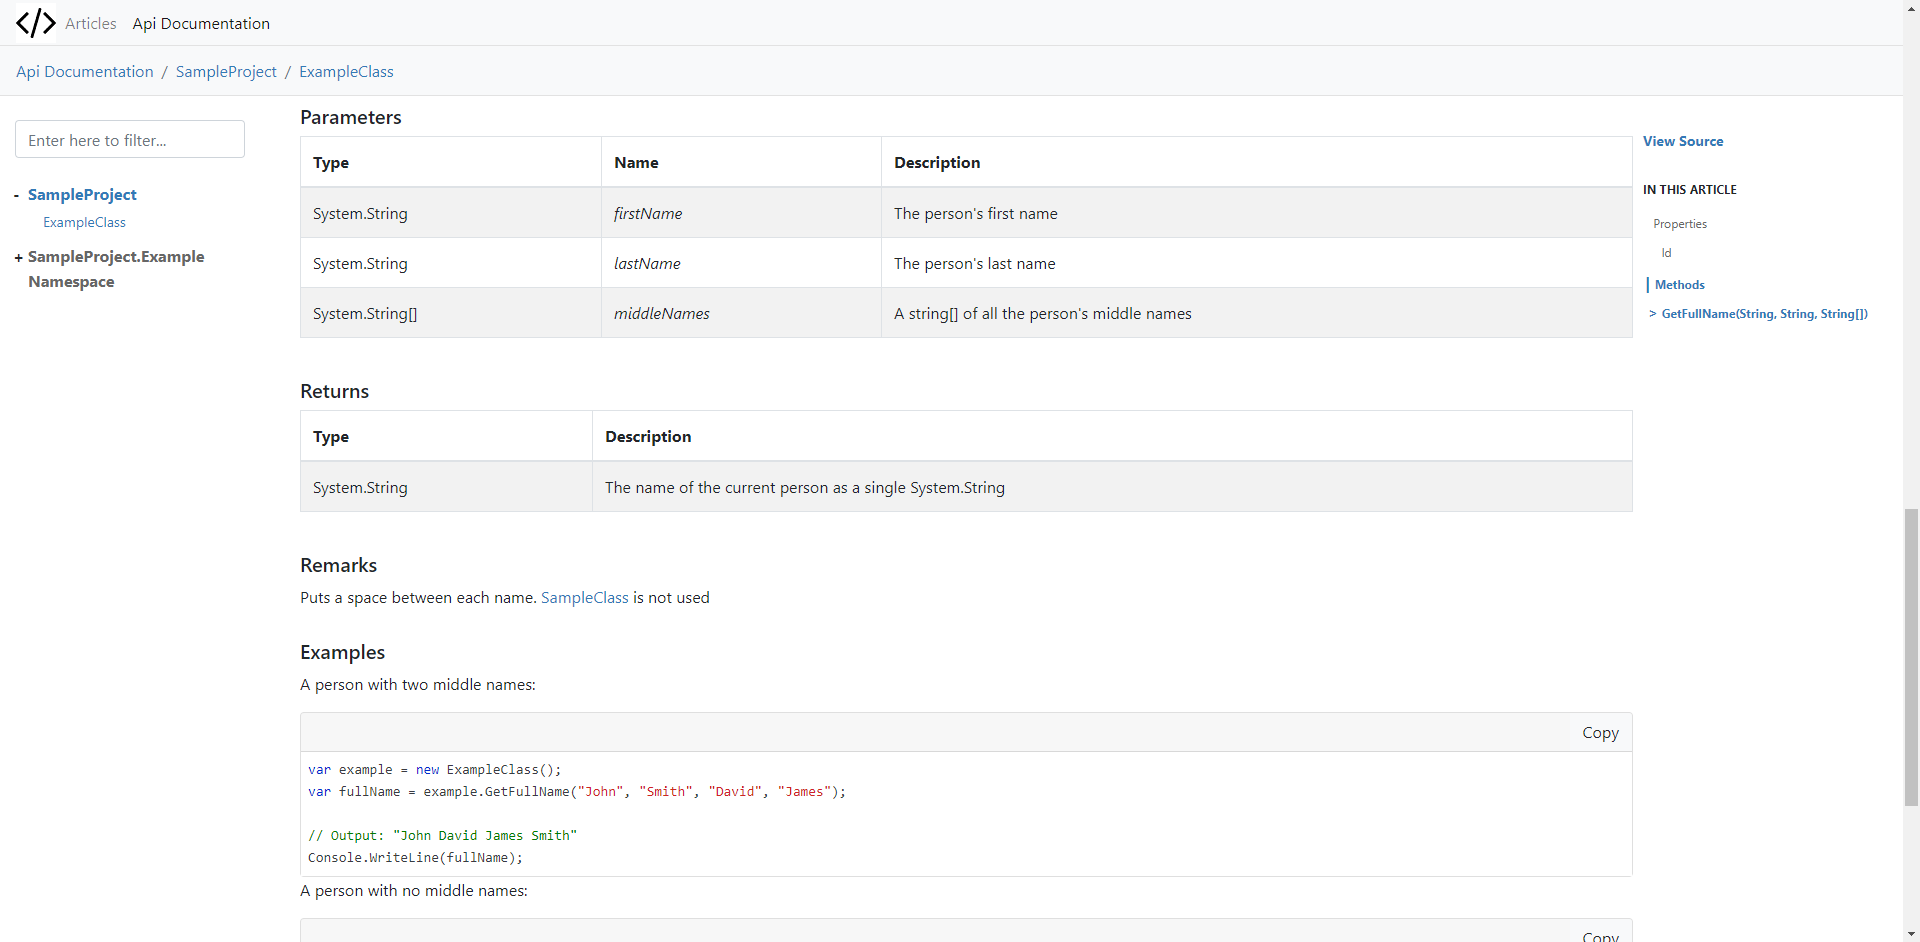
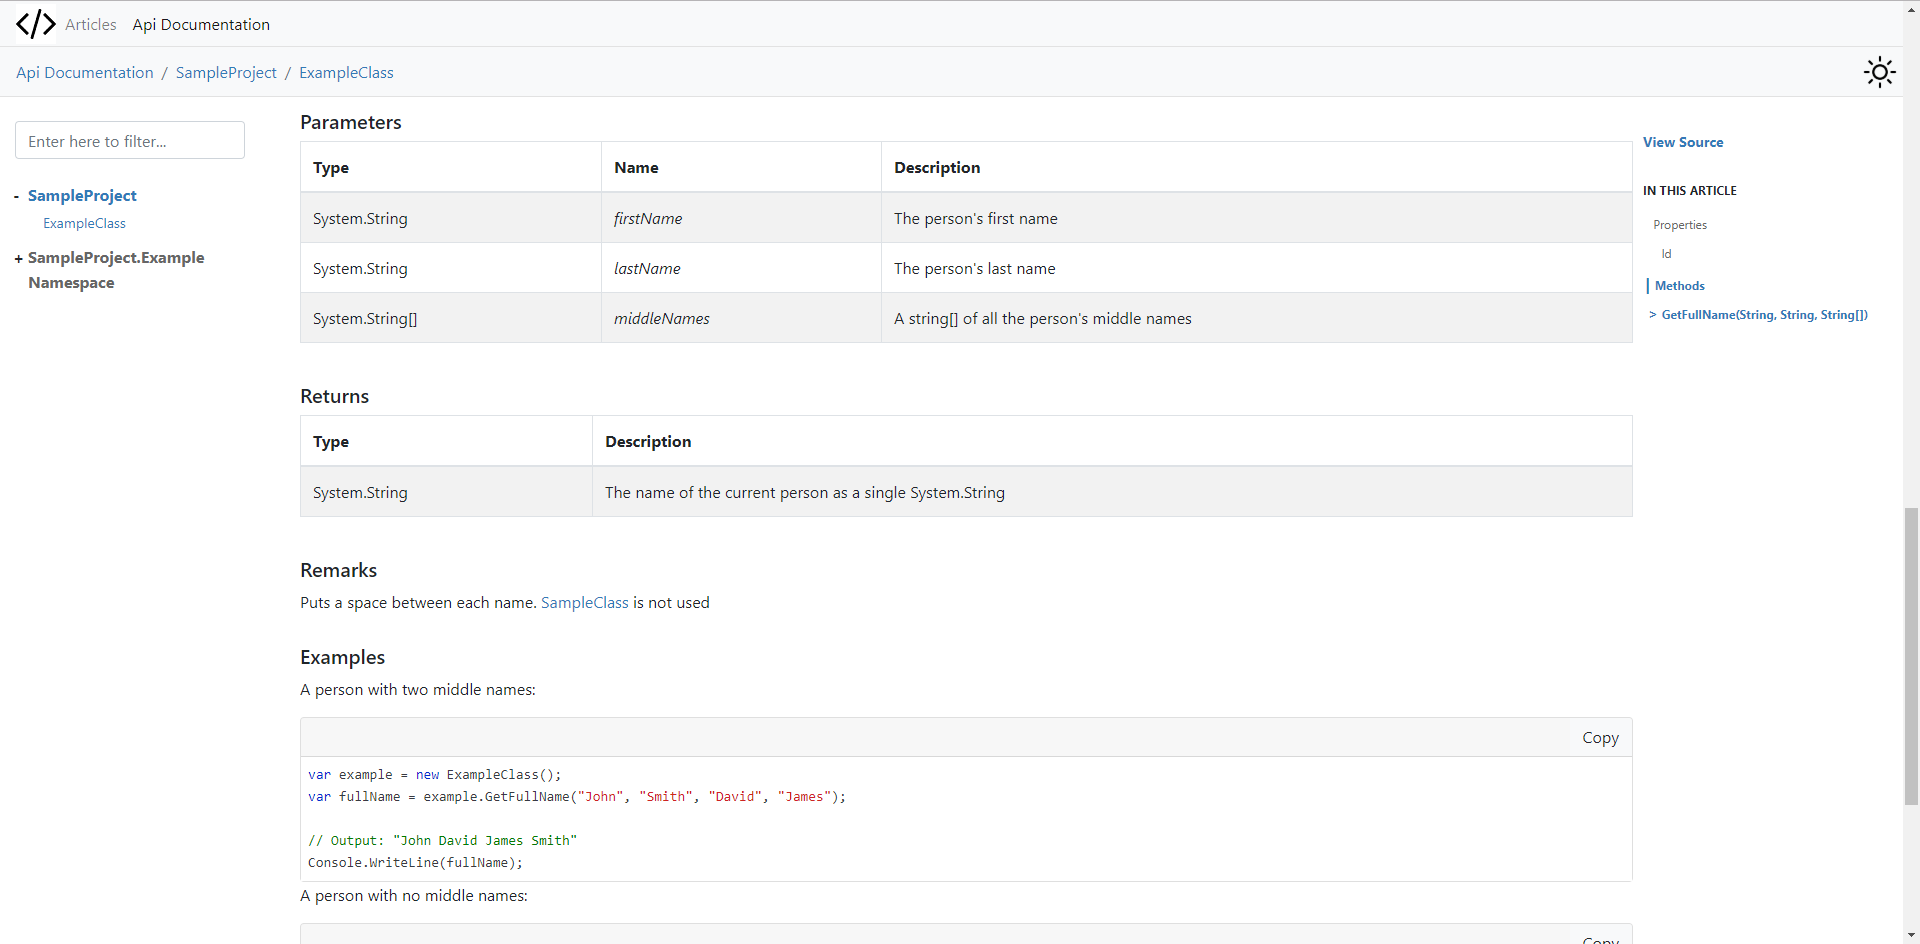
Updated readme and screenshots

diff --git a/README.md b/README.md
@@ -2,7 +2,9 @@
 A custom DocFX template with a light theme, and a focus on readability
 
 # Screenshots
-![App](Screenshots/1.png)
+![App (Light Theme)](Screenshots/1.png)
+
+![App (Dark Theme)](Screenshots/2.png)
 
 # How To
 
